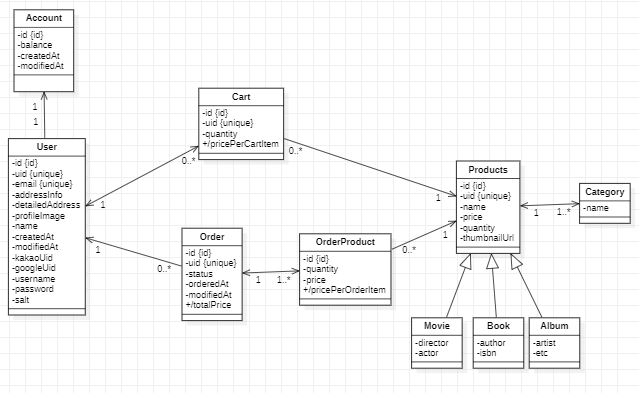
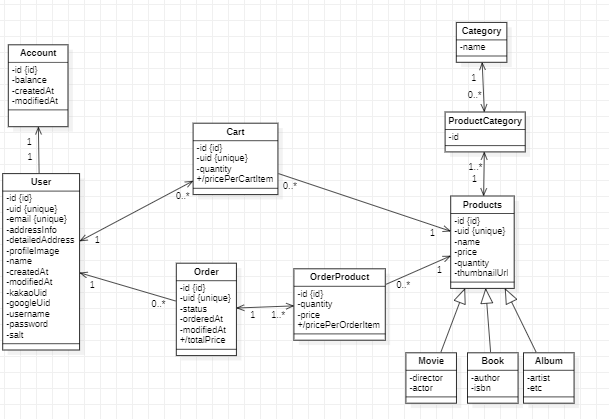
Feat : Category 추가

diff --git a/src/main/java/jpabook/jpashop/domain/product/ProductCategory.java b/src/main/java/jpabook/jpashop/domain/product/ProductCategory.java
@@ -1,0 +1,27 @@
+package jpabook.jpashop.domain.product;
+
+
+import jakarta.persistence.*;
+import lombok.Getter;
+
+@Entity
+@Getter
+public class ProductCategory {
+
+
+    @Id
+    @GeneratedValue
+    private Long id;
+
+    @ManyToOne(fetch = FetchType.LAZY)
+    @JoinColumn(name = "product_id")
+    private Product product;
+
+
+
+    @ManyToOne(fetch = FetchType.LAZY)
+    @JoinColumn(name = "category_id")
+    private Category category;
+
+
+}

diff --git a/src/main/java/jpabook/jpashop/domain/product/Product.java b/src/main/java/jpabook/jpashop/domain/product/Product.java
@@ -4,6 +4,8 @@ import lombok.Getter;
 
 import jakarta.persistence.*;
 
+import java.util.List;
+
 @Entity
 @Getter
 @Table(name = "products")
@@ -24,6 +26,10 @@ public abstract class Product {
     private int stockQuantity;
 
     private String thumbnailImageUrl;
+
+
+    @OneToMany(mappedBy = "product", cascade = CascadeType.REMOVE, orphanRemoval = true)
+    private List<ProductCategory> categories;
 
 
     public void addStock(int quantity){

diff --git a/src/main/java/jpabook/jpashop/domain/product/Category.java b/src/main/java/jpabook/jpashop/domain/product/Category.java
@@ -1,0 +1,20 @@
+package jpabook.jpashop.domain.product;
+
+
+import jakarta.persistence.*;
+
+@Entity
+@Table(name="categories")
+public class Category {
+
+    @Id @GeneratedValue
+    private Long id;
+
+    @Column(name = "category_uid")
+    private String uid;
+
+
+    private String name;
+
+
+}
